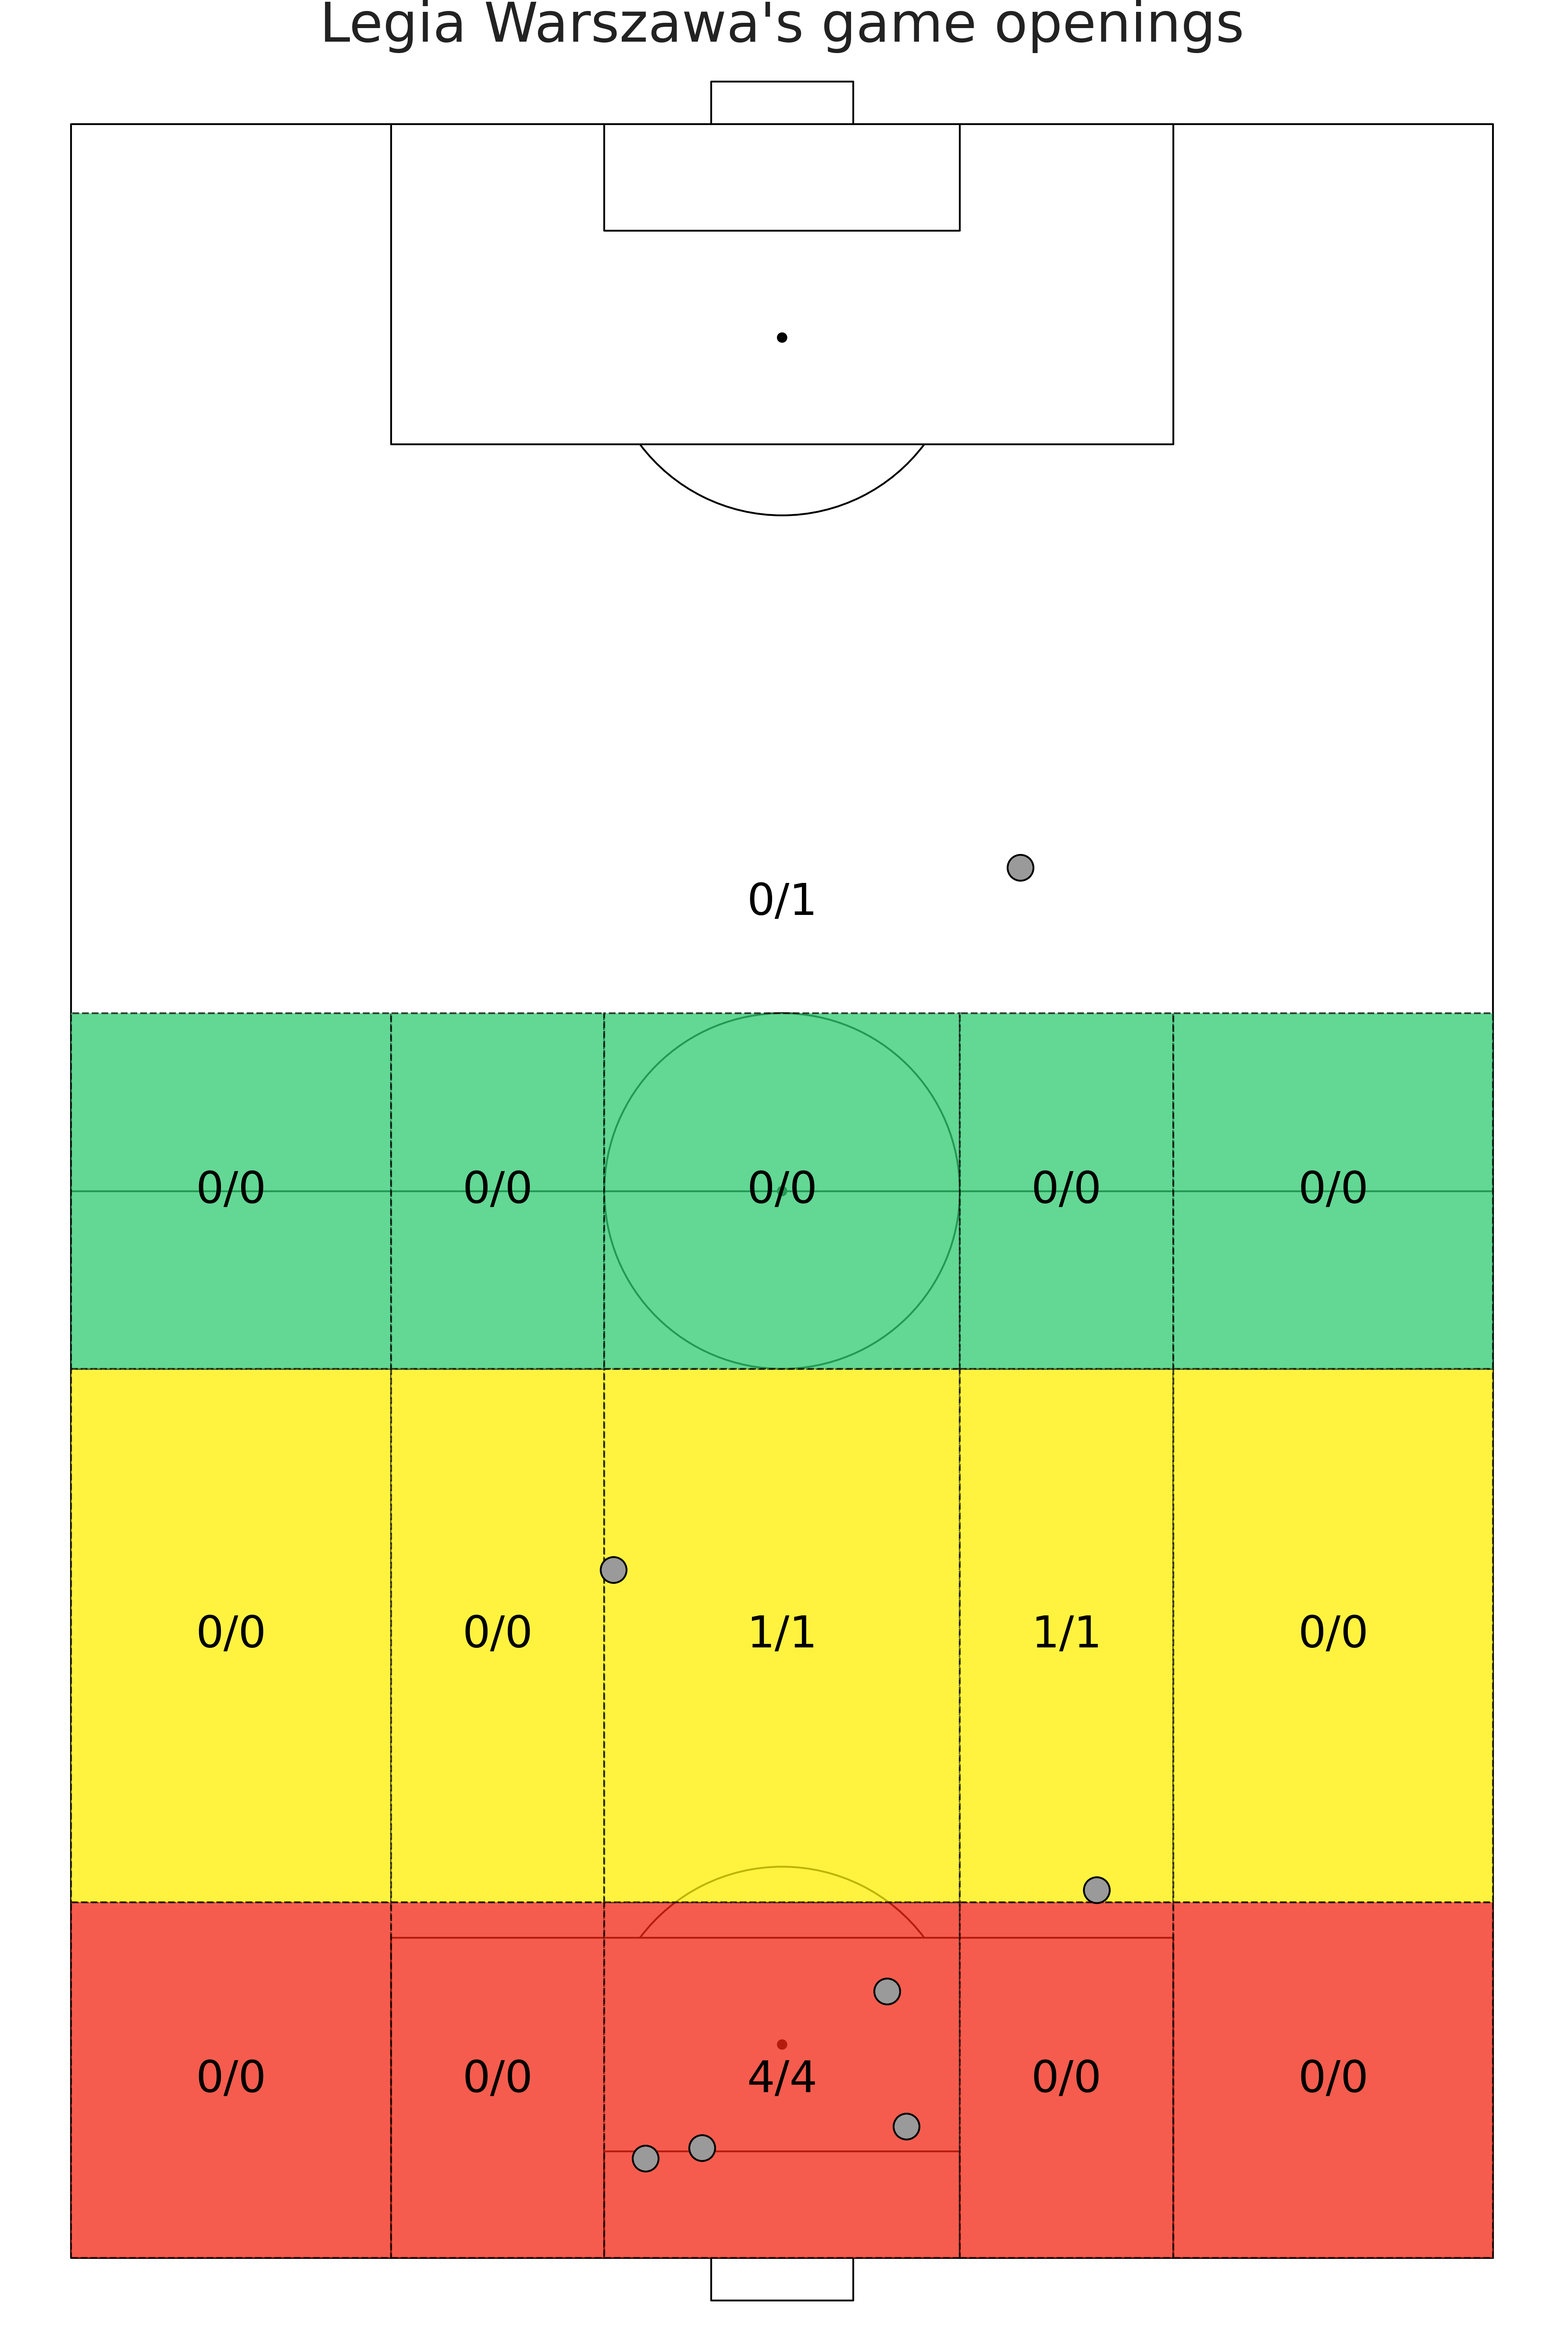
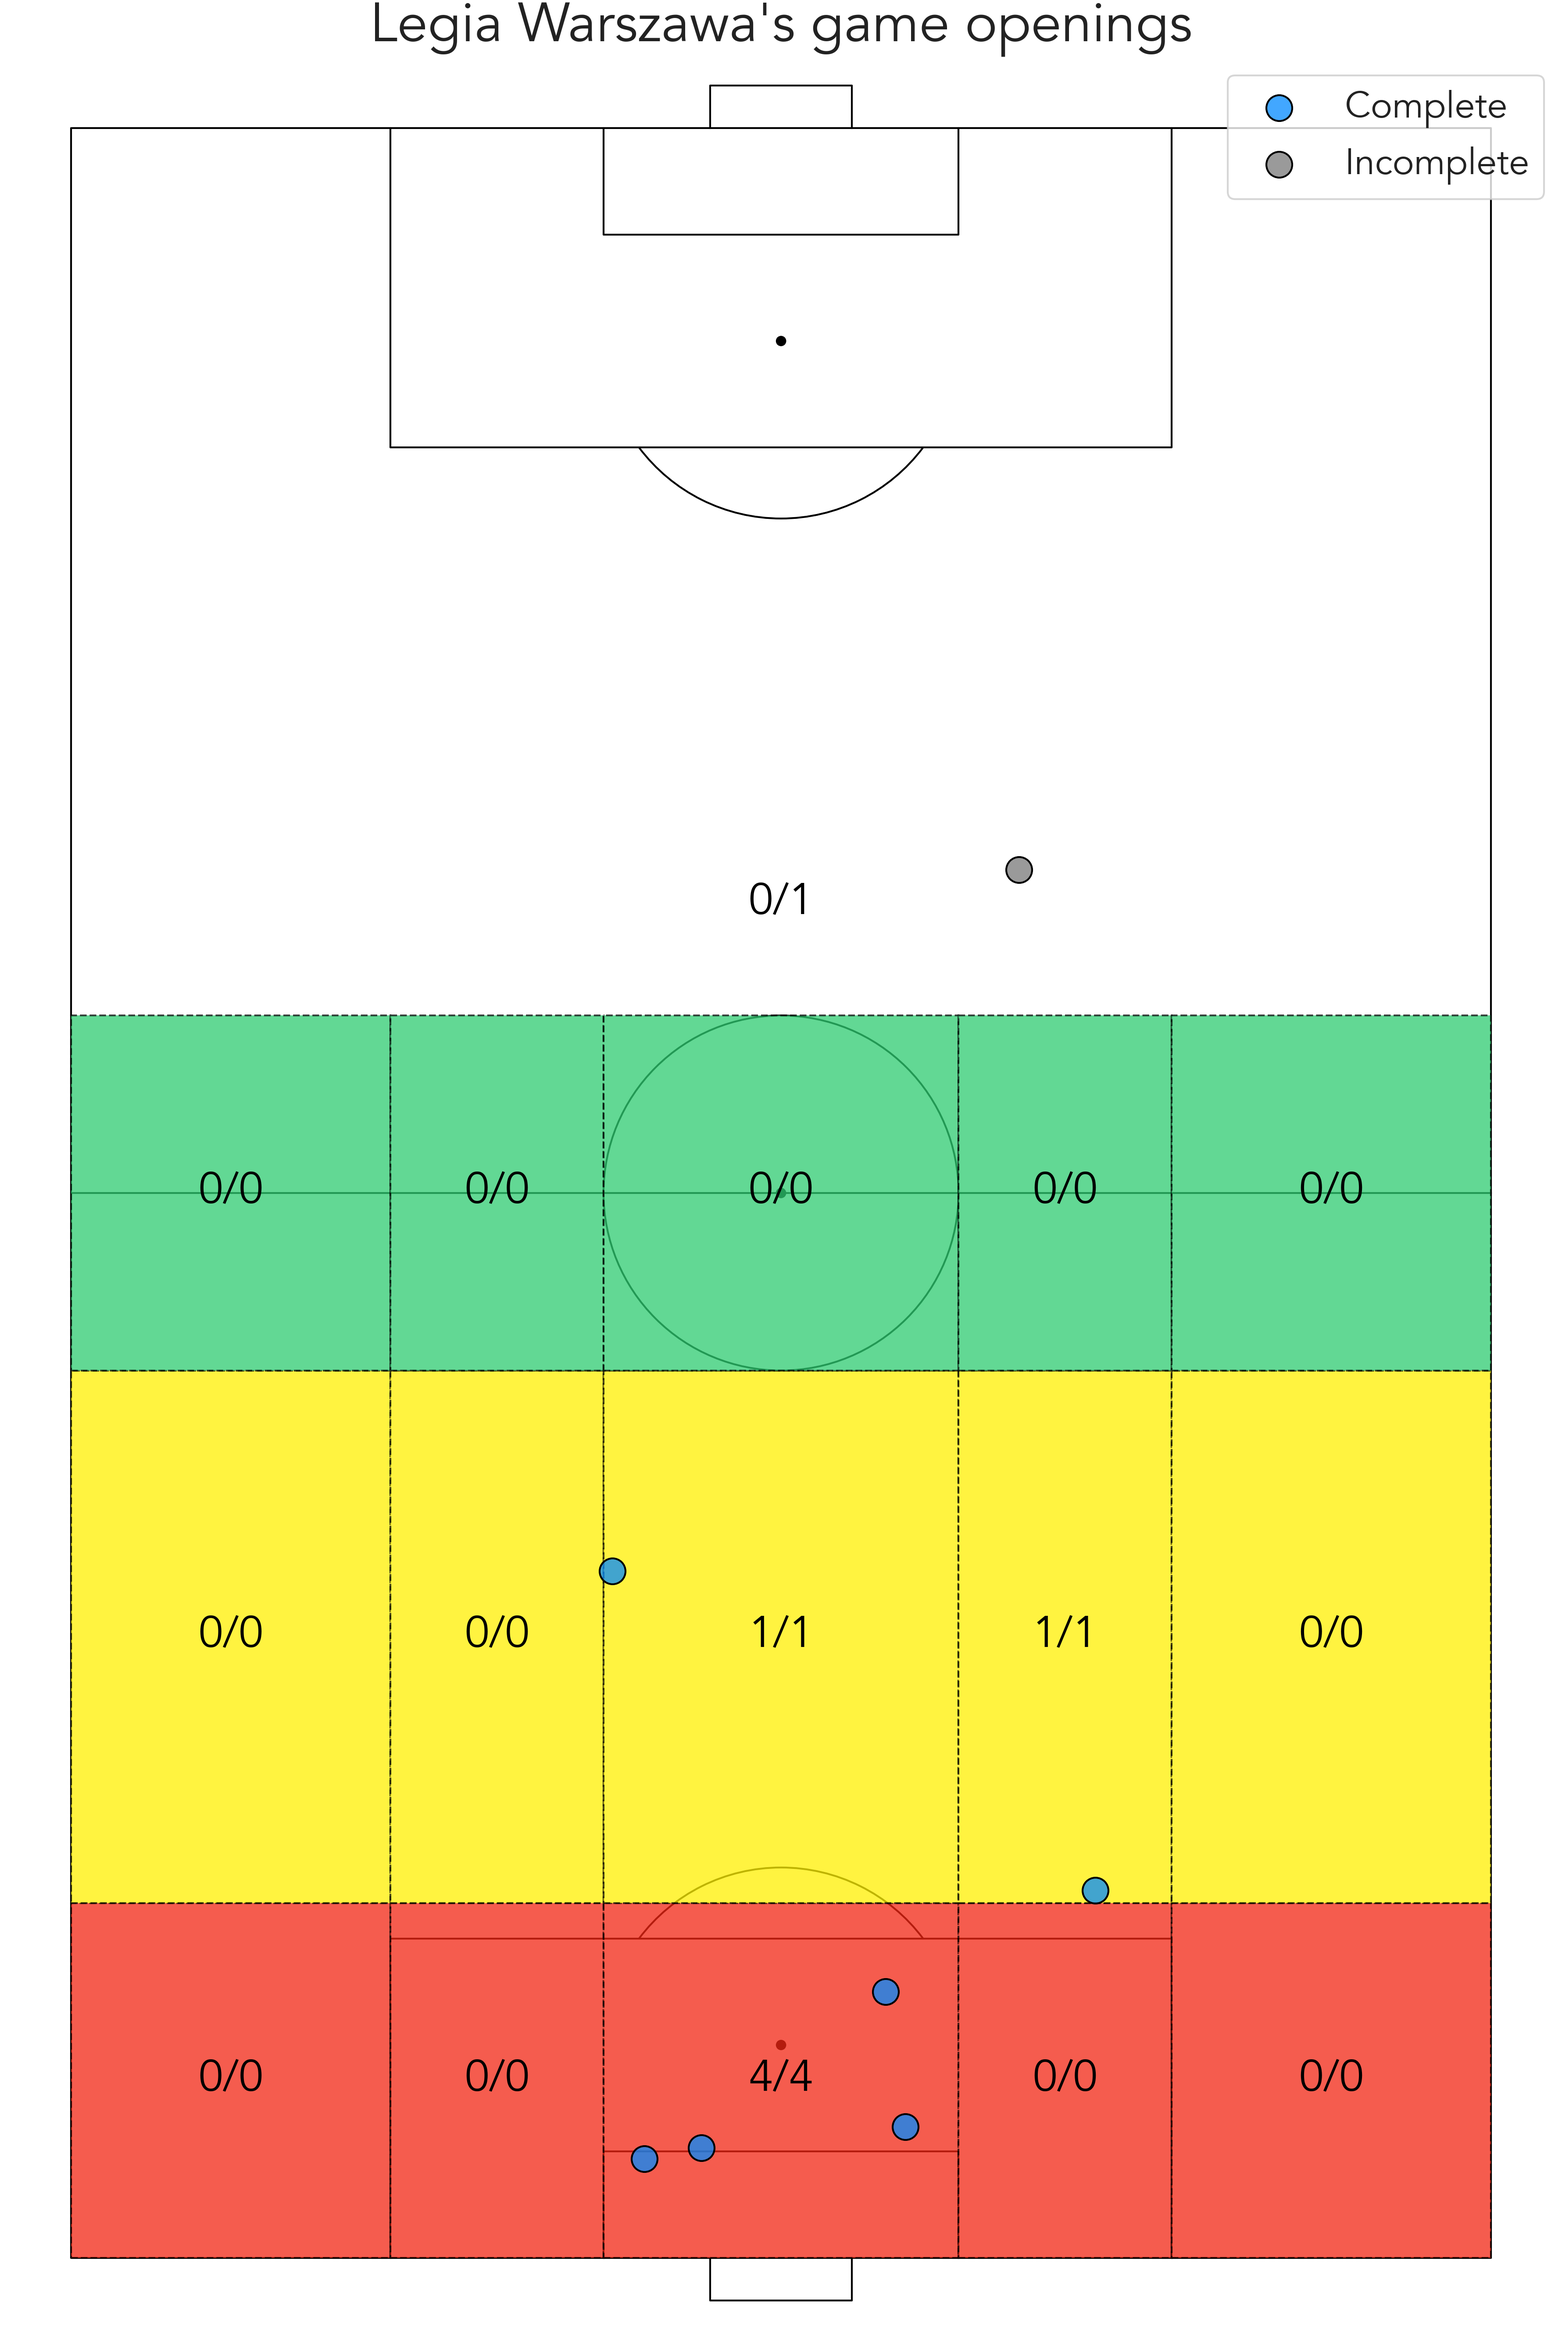
add colors and legend

diff --git a/game_openings_pitches.py b/game_openings_pitches.py
@@ -78,12 +78,12 @@ class GameOpeningsPitches:
         goal_kicks.loc[:, 'x_end'] = goal_kicks['pass_end_location'].str[0]
         goal_kicks.loc[:, 'y_end'] = goal_kicks['pass_end_location'].str[1]
         goal_kicks.loc[:, 'end_zone_gk'] = goal_kicks.apply(lambda row: self.classify_gk_zones(row['x_end'], row['y_end']), axis=1)   
-        goal_kicks.loc[:, "pass_outcome"] = goal_kicks["pass_outcome"].fillna("Successful")
-        data_points = goal_kicks[["team", "x_end", "y_end"]]
+        goal_kicks.loc[:, "pass_outcome"] = goal_kicks["pass_outcome"].fillna("Complete")
+        data_points = goal_kicks[["team", "x_end", "y_end", "pass_outcome"]]
 
         grouped_data = goal_kicks.groupby(["team", "end_zone_gk", "pass_outcome"], dropna=False).count()["id"].to_frame().reset_index()
         pivot_data = grouped_data.pivot_table(index=["team", "end_zone_gk"], columns="pass_outcome", values="id", fill_value=0)
-        pivot_data["ratio"] = pivot_data.apply(lambda x: f"{x.get('Successful', 0)}/{x.get('Successful', 0) + x.get('Incomplete', 0)}", axis=1)
+        pivot_data["ratio"] = pivot_data.apply(lambda x: f"{x.get('Complete', 0)}/{x.get('Complete', 0) + x.get('Incomplete', 0)}", axis=1)
         
         return pivot_data.reset_index(), data_points
 
@@ -108,7 +108,9 @@ class GameOpeningsPitches:
         zone_values = {zone: "0/0" for zone in self.gk_zones}
 
         gk_data = gk_data[(gk_data["team"] == self.team_for) == team_for]
-        data_points = data_points[(data_points["team"] == self.team_for) == team_for]
+        data_points_complete = data_points[((data_points["team"] == self.team_for) == team_for) & (data_points["pass_outcome"] == "Complete")]
+        data_points_incomplete = data_points[((data_points["team"] == self.team_for) == team_for) & (data_points["pass_outcome"] == "Incomplete")]
+
         for _, row in gk_data.iterrows():
             zone = row['end_zone_gk']
             ratio = row['ratio']
@@ -144,17 +146,35 @@ class GameOpeningsPitches:
             color=Constants.COLORS["black"], ha='center', va='bottom', fontsize=24, zorder=2
         )
 
-        pitch.scatter(
-            data_points.x_end, 
-            data_points.y_end,
+        # Scatter plot for complete passes
+        complete_scatter = pitch.scatter(
+            data_points_complete.x_end, 
+            data_points_complete.y_end,
+            s=200,
+            edgecolors=Constants.COLORS["black"],
+            c=Constants.COLORS["blue"], 
+            marker='o',
+            ax=ax,
+            zorder=10,
+            label="Complete"  # Add label for legend
+        )
+
+        # Scatter plot for incomplete passes
+        incomplete_scatter = pitch.scatter(
+            data_points_incomplete.x_end, 
+            data_points_incomplete.y_end,
             s=200,
             edgecolors=Constants.COLORS["black"],
             c=Constants.COLORS["sb_grey"], 
             marker='o',
             ax=ax,
-            zorder=10
-            )
-    
+            zorder=10,
+            label="Incomplete"  # Add label for legend
+        )
+
+        # Add the legend to the plot
+        ax.legend(loc="upper right", fontsize=20)  # You can adjust location and font size as needed                        
+            
         title = self.team_for if team_for else "Opponent"
         ax.set_title(f"{title}'s game openings", fontsize=30, color=Constants.TEXT_COLOR)
 
